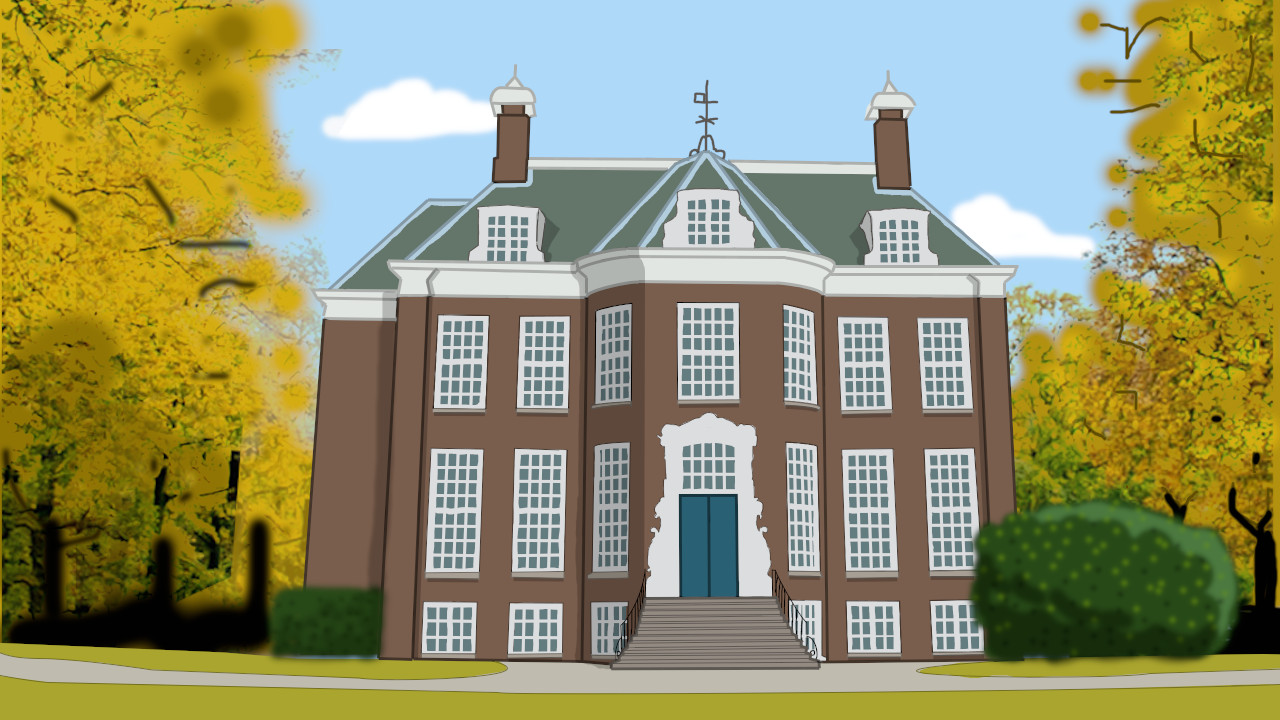
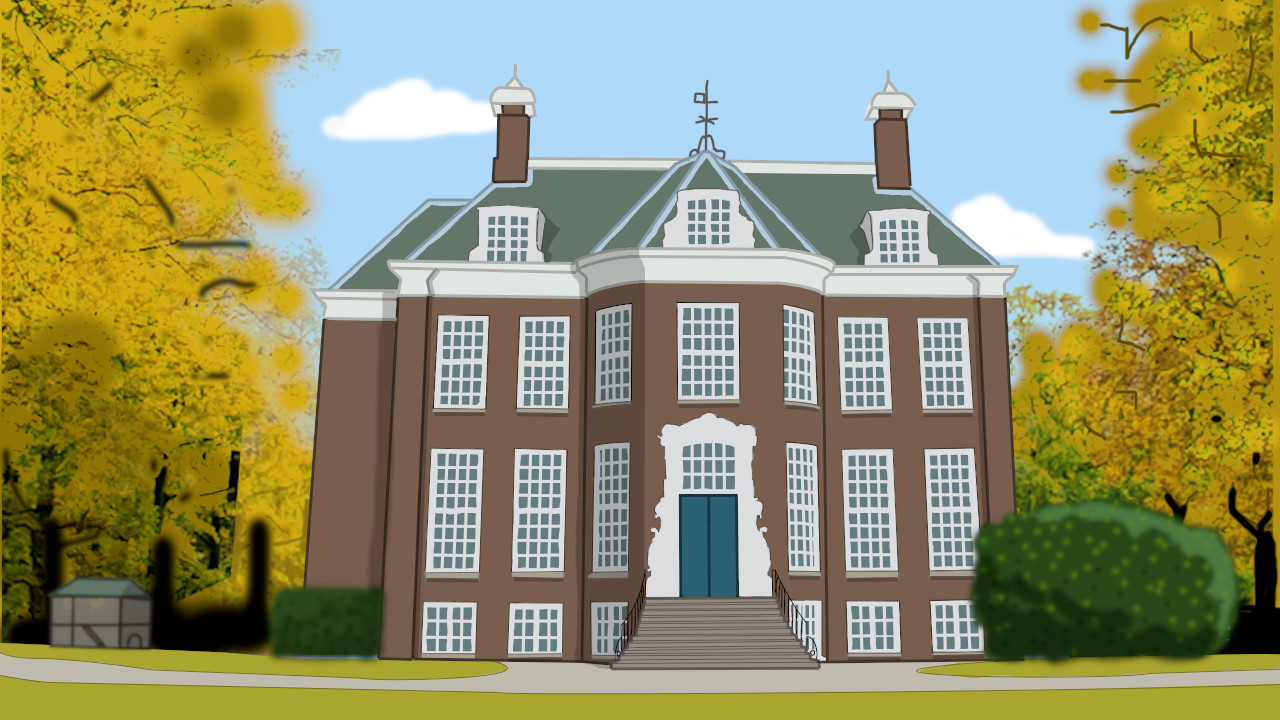
Add chickens

Changed region(s): [[0.0312, 0.7944, 0.125, 0.9167]]

diff --git a/src/content/scripts/pietenhuis.ts b/src/content/scripts/pietenhuis.ts
@@ -3,6 +3,7 @@ import scriptHelpers from "src/lib/script-helpers";
 import characterHelpers from "./helpers/characters";
 
 import keyButton from "src/content/assets/hotspots/mansion-key.png";
+import chickenButton from "src/content/assets/hotspots/mansion-chickens.png";
 import doorKnock from "src/content/assets/sounds/540770__subwaysandwitch420__door-knock.mp3";
 import birdsTrack from "src/content/assets/sounds/345852__hargissssound__spring-birds-loop-with-low-cut-new-jersey.mp3";
 
@@ -73,6 +74,25 @@ const pietenhuis = (queue: Queue) => {
         hiddoPos({
           visible: false,
         });
+      },
+    },
+    {
+      id: "chickensInactive",
+      image: chickenButton,
+      position: [110, 632],
+      skip: s => s.gingerbreadButtonPie === "ingredients",
+      onClick: () => {
+        // No action yet
+      },
+    },
+    {
+      id: "chickens",
+      image: chickenButton,
+      position: [110, 632],
+      hoverEffect: "glow",
+      condition: s => s.gingerbreadButtonPie === "ingredients",
+      onClick: () => {
+        // TODO: Pick up eggs
       },
     },
     {
